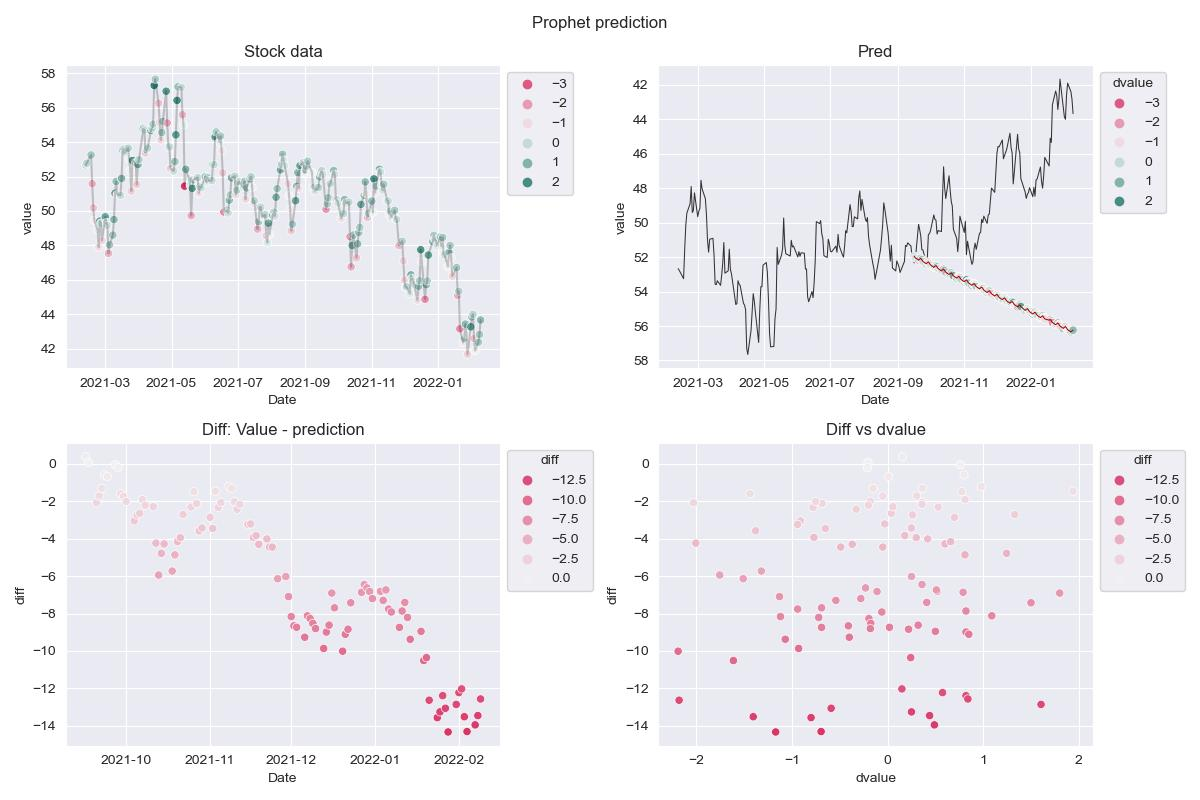
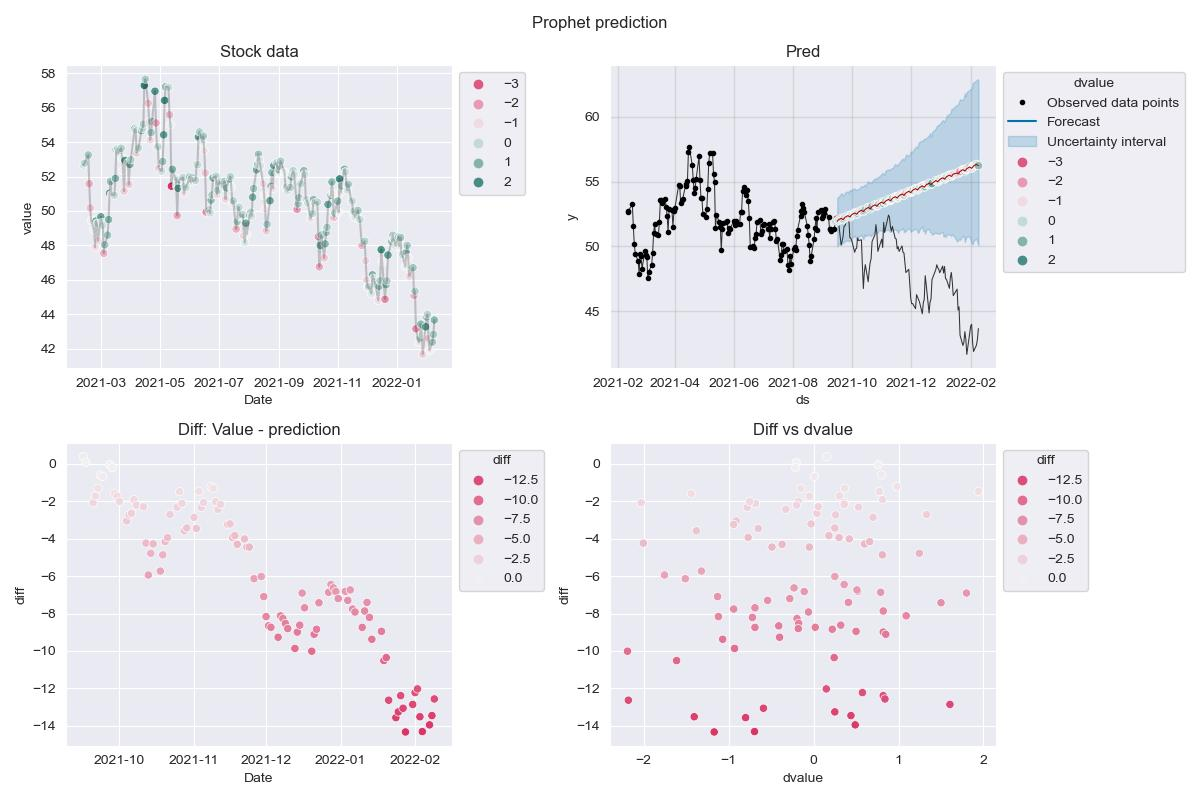
Add m.plot() for prophet prediction

diff --git a/Predict-stock/prophet-prediction.py b/Predict-stock/prophet-prediction.py
@@ -102,10 +102,10 @@ if __name__ == '__main__':
 
     future = pd.DataFrame(testing_df['ds'])
     display(future)
-    prediction = m.predict(future)
-    prediction.index = testing_df.index
-    display(prediction)
-    testing_df['yhat'] = prediction['yhat']
+    forecast = m.predict(future)
+    forecast.index = testing_df.index
+    display(forecast)
+    testing_df['yhat'] = forecast['yhat']
     display(testing_df)
 
     # ----------------------------------------
@@ -135,13 +135,13 @@ if __name__ == '__main__':
             df, ax=ax, x='Date', y='value', color='#0003', zorder=2)
 
     with use_ax(axs[0, 1], 'Pred') as ax:
+        m.plot(forecast, ax=ax)
         sns.lineplot(
             df, ax=ax, x='Date', y='value', color='#333', size=1, legend=False, zorder=1)
         sns.scatterplot(
             df, ax=ax, x='Date', y='pred', hue="dvalue", palette=palette, zorder=2)
         sns.lineplot(
             df, ax=ax, x='Date', y='pred', color='#a00', size=1, legend=False, zorder=3)
-        ax.invert_yaxis()
 
     with use_ax(axs[1, 0], 'Diff: Value - prediction') as ax:
         sns.scatterplot(
